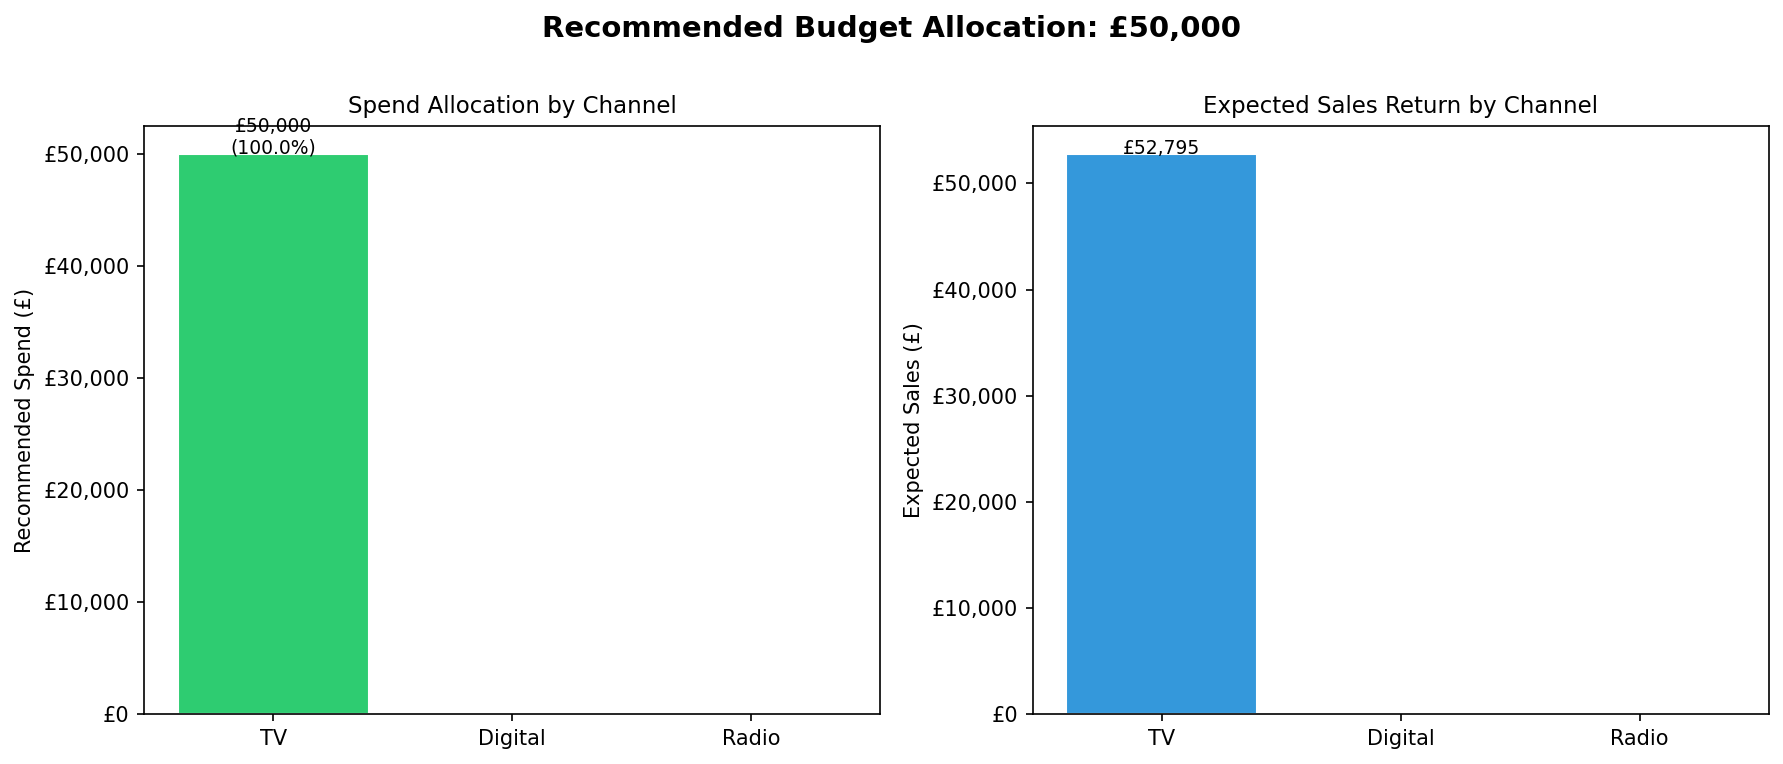
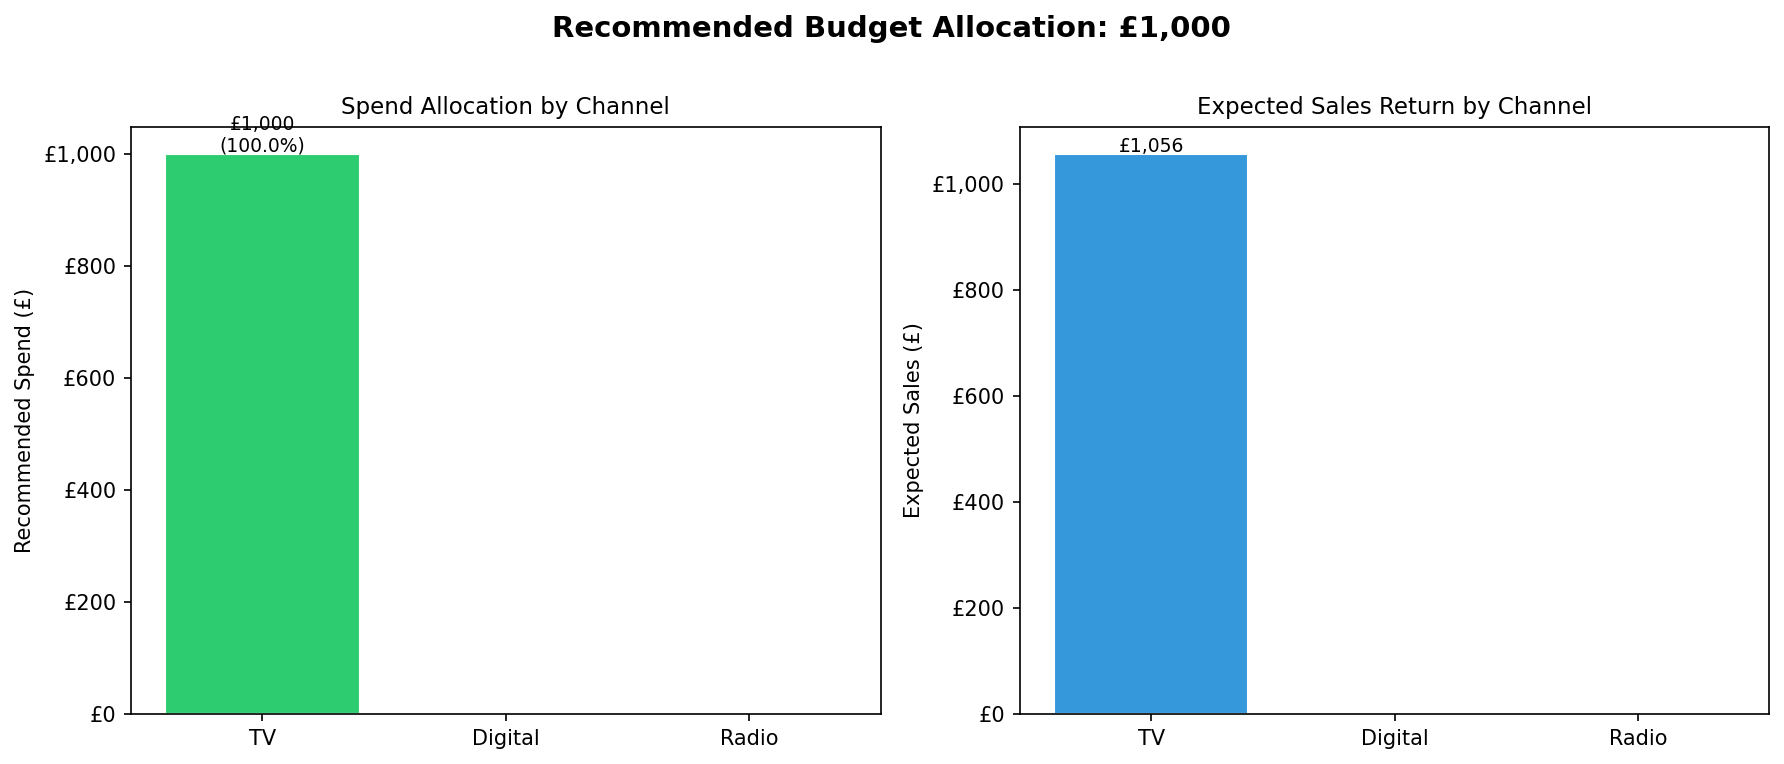
Day 72: Finalize MMM portfolio alignment

diff --git a/README.md b/README.md
@@ -1,196 +1,147 @@
-# ROI Optimizer: Marketing Mix Model (MMM)
+# ROI Optimizer | Marketing Mix Model
+Portfolio-ready marketing mix modelling project that estimates channel ROI and turns model outputs into budget allocation decisions for a UK brand.
+**Tech Stack:** Python, Pandas, Statsmodels, Matplotlib, Power BI
 
-## Overview
-ROI Optimizer is a Marketing Mix Modelling project built in Python to estimate how TV, digital, and radio spend contribute to weekly sales. The commercial question behind the project is simple: where should the next marketing budget be allocated for the strongest return?
+## Project Overview
+This project answers a practical budget question: if a business is already spending across TV, digital, and radio, where should the next pound go for the strongest commercial return?
 
-## Tech Stack
-- Python 3.14
-- Pandas
-- Matplotlib
-- Statsmodels
-- Scikit-learn
-- Power BI
+The workflow covers synthetic data generation, exploratory analysis, adstock transformation, OLS regression, ROI calculation, budget optimisation, scenario analysis, and a 4-page Power BI dashboard.
 
-## Project Status
-Day 70 complete in a 120-day analytics programme.
+## Business Question
+How should a brand allocate its media budget when it wants evidence on channel efficiency rather than instinct or legacy planning?
 
-## Progress Log
+## Dataset
+- 104 weekly observations across two years
+- Channels: TV, digital, and radio spend
+- Control variable: `promo_flag`
+- Outcome variable: weekly sales
+- Total sales in the modelling window: £1.94M
+- Total marketing spend in the modelling window: £2.66M
 
-### Day 61 - Project Setup
-- Created the MMM project structure and generated a 104-row weekly marketing dataset
-- Confirmed the dataset contains no missing values and data types are correct
-- Established the modelling base with week, channel spend, promo_flag, and sales
+## Methodology
+1. Generated and inspected a 2-year weekly marketing dataset.
+2. Measured channel relationships with sales through correlations, scatter plots, and a weekly trend view.
+3. Applied adstock to capture media carry-over effects.
+4. Built an OLS regression with adstocked channel variables plus `promo_flag`.
+5. Converted model outputs into ROI by channel and a budget allocation recommendation.
+6. Tested three reallocation scenarios and surfaced the outcome in Power BI.
 
-### Day 62 - Exploratory Data Analysis
-- Calculated the correlation matrix for TV, digital, radio, and sales
-- Built three scatter plots to compare channel spend vs sales
-- Built a weekly sales time-series chart with promo weeks highlighted
-- Documented which channels appear most commercially relevant before modelling
+## Key Results
+| Metric | Result |
+|--------|--------|
+| Model R-squared | 0.715 |
+| Significant channels | TV and Digital |
+| Non-significant channel | Radio (p = 0.6199) |
+| Best return per £1 spent | TV at £1.06 |
+| Digital return per £1 spent | £0.98 |
+| Radio return per £1 spent | £0.12 |
+| £1,000 recommended allocation | 100% to TV |
+| Worst reallocation outcome | Removing TV cuts predicted sales by 58.50% |
 
-### Day 63 - Adstock Transformation
-- Implemented geometric adstock: adstock[t] = spend[t] + decay_rate * adstock[t-1]
-- Applied decay rates: TV = 0.6, Digital = 0.3, Radio = 0.4
-- Visualised original vs adstocked TV spend across 104 weeks
-- Exported adstocked dataset ready for regression modelling
-
-### Day 64 - OLS Regression Model
-- Built an OLS (Ordinary Least Squares) regression using statsmodels
-- Inputs: tv_adstock, digital_adstock, radio_adstock, promo_flag
-- Output: weekly sales
-- Model achieved R-squared of 0.715 - explaining 71.5% of all sales variation
-- Extracted channel coefficients to quantify sales return per £1 of adstocked spend
-- Identified radio as statistically insignificant (p = 0.62)
-- Saved full model summary to outputs/mmm_model_summary.txt
-
-### Day 65 - ROI Calculation per Channel
-- Converted OLS coefficients into ROI per £1 of effective spend per channel
-- TV is the top performing channel at £1.06 return per £1 spent (ROI +5.59%)
-- Digital operates just below break-even at £0.98 return per £1 spent (ROI -2.20%)
-- Radio destroys value at £0.12 return per £1 spent (ROI -87.97%)
-- Key insight: digital has a higher coefficient than TV but lower ROI because its adstock carry-over is weaker at decay rate 0.3 vs TV's 0.6 - raw coefficients alone do not tell the full story
-- Saved ROI table to data/roi_by_channel.csv and bar chart to outputs/roi_by_channel.png
-
-### Day 66 - Budget Optimiser
-- Built a CLI budget optimisation tool using argparse - accepts any budget as input
-- Logic: only channels above break-even (return per £1 > 1.0) receive allocation
-- Budget is weighted proportionally by ROI score across profitable channels
-- At current ROI levels, 100% of budget allocated to TV as the only profitable channel
-- £1,000 input returns £1,055.90 in expected sales (net gain of £55.90)
-- Digital and Radio receive £0 allocation until spend efficiency improves
-- Saved allocation table to outputs/budget_allocation.csv and chart to outputs/budget_allocation.png
-
-### Day 67 - Power BI Dashboard: Executive Overview + Channel ROI + Budget Allocation
-- Built 3 dashboard pages in Power BI Desktop (Windows 365 via RDP on Mac)
-- Page 1 Executive Overview: 4 KPI cards (Total Revenue £1.94M, Total Spend £2.7M, ROAS 0.73, Weeks on Promotion 23), weekly revenue trend line chart, monthly spend by channel bar chart
-- Page 2 Channel Return on Investment Comparison: horizontal bar chart with data labels, Readout narrative card showing TV +5.59%, Digital -2.20%, Radio -87.97%
-- Page 3 Optimised Budget Allocation: donut chart TV 100%, spend matrix table with £50,000 pool, interpretation box
-- All DAX measures created and verified
-- KPI cards equalised to Height 223, Width 277
-- Monthly bar chart sorted Jan to Dec using Month No sort column
-- Legend labels cleaned from raw column names to TV Spend, Radio Spend, Digital Spend
-
-### Day 68 - Sensitivity Analysis: What If Scenarios
-- Built scenario analysis script to model 3 budget reallocation strategies
-- Used OLS coefficients to predict sales impact of each scenario
-- Scenario A (Digital +20% / TV -20%): sales drop -4.21% (-£81,662)
-- Scenario B (Radio x2 / Digital -50%): sales drop -20.41% (-£396,165)
-- Scenario C (Remove TV / Digital +20%): sales drop -58.50% (-£1,135,575)
-- Key insight: no reallocation improves baseline - current mix is near-optimal
-- Saved results to outputs/scenario_comparison.csv
-
-### Day 69 - Power BI Dashboard: Scenario Analysis + Final Polish
-- Built Page 4 Scenario Analysis Matrix with conditional highlighting
-- vs Baseline column formatted with £ and comma separators
-- Impact % corrected and displayed to 2 decimal places
-- Full dashboard polish applied across all 4 pages
-- Exported all 4 pages as portfolio PNG screenshots
-- Saved final file as powerbi/Project3_MMM_Dashboard_Final.pbix
-
-### Day 70 - Presentation Preparation
-- Wrote verbal business story walkthrough in `presentation_notes.md`
-- Framed findings as a commercial outcome: TV returns £1.06 per £1 spent vs Radio destroying 88% of value
-- Prepared interview Q&A covering model validation, OLS limitations, and improvement roadmap
-
----
-
-## Key Findings
-
-### Correlation vs Sales (Pre-Model)
-| Channel | Correlation with Sales | Adstock Decay | Avg Carry-Over Uplift |
-|---------|----------------------|---------------|-----------------------|
-| TV | r = 0.530 | 0.6 | +147% |
-| Digital | r = 0.489 | 0.3 | +43% |
-| Radio | r = 0.017 | 0.4 | +67% |
-
-### OLS Regression Results (Day 64)
-| Channel | Coefficient | P-Value | Significant? |
-|---------|-------------|---------|--------------|
-| digital_adstock | 0.6875 | 0.0000 | YES |
-| tv_adstock | 0.4281 | 0.0000 | YES |
-| radio_adstock | 0.0724 | 0.6199 | NO |
-| promo_flag | 8008.46 | 0.0000 | YES |
-
-Model R-squared: 0.715
-
-### ROI per Channel (Day 65)
+## Channel ROI
 | Channel | Coefficient | Avg Weekly Spend | Avg Adstock | Return per £1 | ROI |
 |---------|-------------|-----------------|-------------|---------------|-----|
 | TV | 0.4281 | £11,996.47 | £29,592.65 | £1.06 | +5.59% |
 | Digital | 0.6875 | £8,937.62 | £12,714.81 | £0.98 | -2.20% |
 | Radio | 0.0724 | £4,666.85 | £7,750.90 | £0.12 | -87.97% |
 
-### Budget Allocation (Day 66)
-| Channel | Return per £1 | £1,000 Allocation | Expected Sales |
-|---------|--------------|-------------------|----------------|
-| TV | £1.06 | £1,000.00 | £1,055.90 |
-| Digital | £0.98 | £0.00 | £0.00 |
-| Radio | £0.12 | £0.00 | £0.00 |
-
-**Business Recommendation:** At current ROI levels, allocate 100% of marketing budget to TV. Revisit digital spend efficiency before increasing its allocation. Eliminate radio spend entirely.
-
-### Scenario Analysis (Day 68)
+## Scenario Analysis
 | Scenario | Predicted Sales | vs Baseline | Impact % |
 |----------|----------------|-------------|----------|
 | Baseline | £1,941,047 | £0 | 0.00% |
-| A: Digital +20% / TV -20% | £1,859,385 | -£81,662 | -4.21% |
-| B: Radio x2 / Digital -50% | £1,544,882 | -£396,165 | -20.41% |
-| C: Remove TV / Digital +20% | £805,472 | -£1,135,575 | -58.50% |
+| Digital +20% / TV -20% | £1,859,385 | -£81,662 | -4.21% |
+| Radio x2 / Digital -50% | £1,544,882 | -£396,165 | -20.41% |
+| Remove TV / Digital +20% | £805,472 | -£1,135,575 | -58.50% |
 
-**Business Insight:** No reallocation scenario improves on baseline sales. The current channel mix is near-optimal. Increasing total budget is a stronger lever than reallocating between channels.
-
-## Power BI Dashboard (Days 67 and 69)
-| Page | Title | Key Visual |
-|------|-------|------------|
-| 1 | Executive Overview | KPI cards, weekly trend, monthly spend |
-| 2 | Channel Return on Investment Comparison | ROI bar chart with Readout card |
-| 3 | Optimised Budget Allocation | Donut chart, spend matrix table |
-| 4 | Scenario Analysis Matrix | Conditional highlighted table, Summary card |
-
-## Outputs
-| File | Description |
-|------|-------------|
-| data/correlation_matrix.csv | Pearson r values across all channels |
-| outputs/scatter_tv_spend_vs_sales.png | TV spend vs sales scatter |
-| outputs/scatter_digital_spend_vs_sales.png | Digital spend vs sales scatter |
-| outputs/scatter_radio_spend_vs_sales.png | Radio spend vs sales scatter |
-| outputs/timeseries_sales_promo.png | Weekly sales with promo highlights |
-| outputs/tv_adstock_plot.png | TV original vs adstocked spend |
-| data/mmm_data_adstocked.csv | Dataset with adstock columns added |
-| outputs/mmm_model_summary.txt | Full OLS regression results |
-| data/roi_by_channel.csv | ROI per channel table |
-| outputs/roi_by_channel.png | ROI bar chart by channel |
-| outputs/budget_allocation.csv | Recommended budget allocation table |
-| outputs/budget_allocation.png | Budget allocation and expected sales chart |
-| outputs/scenario_comparison.csv | 3 scenario budget reallocation results vs baseline |
-| powerbi/day67_executive_overview.png | Page 1 dashboard screenshot |
-| powerbi/day67_channel_roi_comparison.png | Page 2 dashboard screenshot |
-| powerbi/day67_optimised_budget_allocation.png | Page 3 dashboard screenshot |
-| powerbi/day69_scenario_analysis_matrix.png | Page 4 dashboard screenshot |
-| powerbi/Project3_MMM_Dashboard_Final.pbix | Final Power BI file |
-| presentation_notes.md | Business story walkthrough and interview Q&A |
+## Business Recommendation
+- Keep TV as the lead channel because it is the only one currently above break-even.
+- Reduce or redesign radio spend because it destroys value at current efficiency.
+- Review digital targeting and creative effectiveness before increasing spend.
+- Use scenario testing before any quarterly budget reallocation rather than shifting spend on intuition alone.
 
 ## Dashboard Preview
-
 ### Page 1: Executive Overview
 ![Executive Overview](powerbi/day67_executive_overview.png)
 
-### Page 2: Channel Return on Investment Comparison
+### Page 2: Channel ROI Comparison
 ![Channel ROI Comparison](powerbi/day67_channel_roi_comparison.png)
 
 ### Page 3: Optimised Budget Allocation
 ![Optimised Budget Allocation](powerbi/day67_optimised_budget_allocation.png)
 
-### Page 4: Scenario Analysis Matrix
+### Page 4: Scenario Analysis
 ![Scenario Analysis Matrix](powerbi/day69_scenario_analysis_matrix.png)
 
-## Structure
-```
+## Files To Review First
+- `README.md` for the business story and headline results
+- `project_notes.md` for the day-by-day modelling build
+- `presentation_notes.md` for the interview walkthrough and Q&A
+- `outputs/mmm_model_summary.txt` for the regression output
+- `outputs/correlation_matrix.csv` for the initial channel relationship summary
+- `outputs/scenario_comparison.csv` and `outputs/roi_by_channel.csv` for the recommendation tables
+- `powerbi/Project3_MMM_Dashboard_Final.pbix` for the finished dashboard
+
+## Project Structure
+```text
 roi_optimizer/
-├── data/               # Source dataset, generator script, adstocked dataset
-├── scripts/            # Inspection, EDA, adstock, regression, ROI, optimiser, scenario scripts
-├── outputs/            # Charts and model outputs
-├── powerbi/            # Dashboard screenshots and final PBIX file
-├── README.md
-├── project_notes.md
-└── presentation_notes.md
+|-- data/
+|   |-- marketing_data.csv
+|   |-- mmm_data_adstocked.csv
+|   |-- correlation_matrix.csv
+|   `-- roi_by_channel.csv
+|-- scripts/
+|   |-- 01_inspect.py
+|   |-- 01_eda.py
+|   |-- 02_mmm_model.py
+|   |-- 03_adstock.py
+|   |-- 03_roi_calculator.py
+|   |-- 04_budget_optimizer.py
+|   `-- 05_scenario_analysis.py
+|-- outputs/
+|   |-- correlation_matrix.csv
+|   |-- scatter_*.png
+|   |-- tv_adstock_plot.png
+|   |-- roi_by_channel.csv
+|   |-- roi_by_channel.png
+|   |-- budget_allocation.png
+|   |-- scenario_comparison.csv
+|   `-- mmm_model_summary.txt
+|-- powerbi/
+|   |-- Project3_MMM_Dashboard_Final.pbix
+|   |-- day67_executive_overview.png
+|   |-- day67_channel_roi_comparison.png
+|   |-- day67_optimised_budget_allocation.png
+|   `-- day69_scenario_analysis_matrix.png
+|-- project_notes.md
+|-- presentation_notes.md
+`-- README.md
+```
+
+## How To Run
+Install dependencies and run the pipeline from the repo root:
+
+```bash
+python3 -m venv .venv
+source .venv/bin/activate
+pip install -r requirements.txt
+chmod +x run_mmm.sh
+./run_mmm.sh
+```
+
+If you prefer to run each step manually, use:
+
+```bash
+python scripts/01_inspect.py
+python scripts/01_eda.py
+python scripts/03_adstock.py
+python scripts/02_mmm_model.py
+python scripts/03_roi_calculator.py
+python scripts/04_budget_optimizer.py --budget 1000
+python scripts/05_scenario_analysis.py
+```
+
+To inspect the final dashboard, open:
+
+```text
+powerbi/Project3_MMM_Dashboard_Final.pbix
 ```

diff --git a/project_notes.md b/project_notes.md
@@ -32,7 +32,7 @@ with promo highlights.
 `outputs/scatter_digital_spend_vs_sales.png`,
 `outputs/scatter_radio_spend_vs_sales.png`,
 `outputs/timeseries_sales_promo.png`,
-`data/correlation_matrix.csv`
+`outputs/correlation_matrix.csv`
 
 | Channel | Correlation with Sales | Verdict |
 |---------|------------------------|---------|
@@ -107,7 +107,7 @@ Adj R-squared: 0.703
 ## Day 65 - ROI Calculation per Channel
 
 **Script:** `scripts/03_roi_calculator.py`
-**Outputs:** `data/roi_by_channel.csv`, `outputs/roi_by_channel.png`
+**Outputs:** `outputs/roi_by_channel.csv`, `outputs/roi_by_channel.png`
 
 | Channel | Coefficient | Avg Weekly Spend | Avg Adstock | Return per £1 | ROI |
 |---------|-------------|-----------------|-------------|---------------|-----|
@@ -257,6 +257,11 @@ value at current spend efficiency levels.
 | Page 2 | Duplicate chart title removed, X-axis label added, data labels on bars |
 | Page 3 | Legend title capitalised, table values formatted with £, Weight shows % |
 | Page 4 | vs Baseline formatted with £ and commas, Impact % corrected to 2dp, conditional highlighting working, Summary card tightened |
+
+### Repo Delivery Alignment
+
+- Added `run_mmm.sh` so the full MMM workflow can be rerun from one command.
+- Added `requirements.txt` so the repo is reproducible when reviewed outside the original environment.
 
 ### Key Business Findings (Full Dashboard)
 
